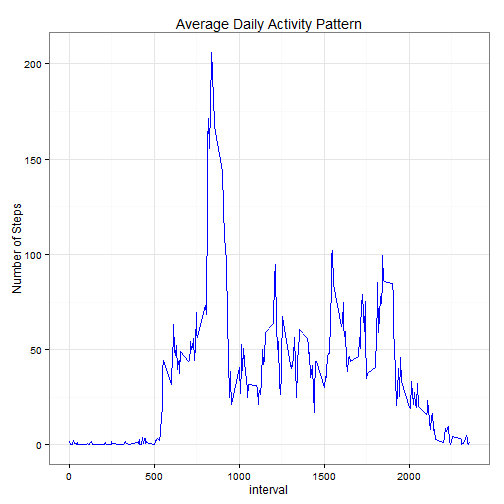
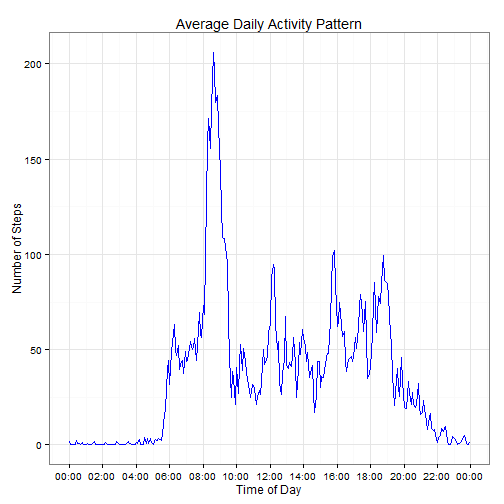
Final?

Changed region(s): [[0.0893, 0.0595, 0.9524, 0.9821], [0.6548, 0.4762, 0.9524, 0.8929], [0.1786, 0.8631, 0.2083, 0.8929]]

diff --git a/PA1_template.html b/PA1_template.html
@@ -181,7 +181,7 @@ hljs.initHighlightingOnLoad();
 <body>
 <h1>Reproducible Research Peer Assessment 1</h1>
 
-<p>This markdown file was generated at Sun Jun 15 7:36:54 AM 2014 UTC.</p>
+<p>This markdown file was generated on Sun Jun 15 3:52:32 PM 2014 UTC using R version 3.0.3 (2014-03-06).</p>
 
 <h2>Introduction</h2>
 
@@ -195,27 +195,30 @@ hljs.initHighlightingOnLoad();
 Sys.setlocale(&quot;LC_TIME&quot;, &quot;English&quot;)
 suppressPackageStartupMessages(require(data.table))
 suppressPackageStartupMessages(require(ggplot2))
+suppressPackageStartupMessages(require(scales))
 options(scipen = 1, digits = 7)
 fileUrl &lt;- &quot;https://d396qusza40orc.cloudfront.net/repdata%2Fdata%2Factivity.zip&quot;
 if(!file.exists(&quot;activity.csv&quot;)){
-        download.file(fileUrl, destfile=&quot;activity_monitoring_data.zip&quot;, 
+        download.file(fileUrl, destfile = &quot;activity_monitoring_data.zip&quot;, 
                       method=&quot;auto&quot;)       
         unzip(&quot;activity_monitoring_data.zip&quot;)
 }
-activityData &lt;- data.table(read.csv(&quot;activity.csv&quot;,header = TRUE, sep = &quot;,&quot;,
-        na.strings = &quot;NA&quot;, colClasses=c(&quot;numeric&quot;,&quot;Date&quot;,&quot;numeric&quot;)))
+activityData &lt;- data.table(read.csv(&quot;activity.csv&quot;, header = TRUE, sep = &quot;,&quot;,
+        na.strings = &quot;NA&quot;, colClasses = c(&quot;numeric&quot;, &quot;Date&quot;, &quot;numeric&quot;)))
+activityData$interval &lt;- sprintf(&quot;%04d&quot;, activityData$interval)
+activityData$interval &lt;- as.POSIXct(activityData$interval, format = &quot;%H%M&quot;)
 </code></pre>
 
-<p>First the working directory was established.  <em>Note: if the reader wishes to execute the code herein, he/she may need to change the working directory.</em>  Next two packages are loaded: <a href="http://cran.r-project.org/web/packages/data.table/index.html">data.table</a> for efficient processing of data tables and <a href="http://ggplot2.org/">ggplot2</a> for producing the plots. Finally the data were downloaded and loaded in as a data.table.</p>
+<p>First the working directory was established.  <em>Note: if the reader wishes to execute the code herein, he/she may need to change the working directory.</em>  Next two packages are loaded: <a href="http://cran.r-project.org/web/packages/data.table/index.html">data.table</a> for efficient processing of data tables, <a href="http://ggplot2.org/">ggplot2</a> for producing the plots, and <a href="http://cran.r-project.org/web/packages/scales/index.html">scales</a> for aid in formatting axes on plots. Finally the data were downloaded and loaded in as a data.table.</p>
 
 <h2>What is mean total number of steps taken per day?</h2>
 
-<pre><code class="r">transformedDataByDate &lt;- activityData[,list(total=sum(steps)),by=date]
-stepsMean &lt;- round(mean(transformedDataByDate$total,na.rm=TRUE))
-stepsMedian &lt;- round(median(transformedDataByDate$total,na.rm=TRUE))
-ggplot(transformedDataByDate, aes(x=total)) + geom_histogram(color=&quot;blue&quot;, fill
-        =&quot;white&quot;, binwidth = 1000) + geom_vline(aes(xintercept=stepsMedian), 
-        color=&quot;red&quot;, linetype=&quot;dashed&quot;, size=1) + ylim(0, 18) + 
+<pre><code class="r">transformedDataByDate &lt;- activityData[, list(total = sum(steps)), by = date]
+stepsMean &lt;- round(mean(transformedDataByDate$total, na.rm = TRUE))
+stepsMedian &lt;- round(median(transformedDataByDate$total, na.rm = TRUE))
+ggplot(transformedDataByDate, aes(x = total)) + geom_histogram(color = &quot;blue&quot;, 
+        fill = &quot;white&quot;, binwidth = 1000) + geom_vline(aes(xintercept = 
+        stepsMedian), color = &quot;red&quot;, linetype = &quot;dashed&quot;, size=1) + ylim(0, 18) + 
         ggtitle(&quot;Total Number of Steps Taken Per Day: Missing Data Ignored&quot;) + 
         xlab(&quot;Number of steps per day&quot;) + ylab(&quot;Count&quot;) + theme_bw()
 </code></pre>
@@ -229,32 +232,33 @@ The median number of steps, rounded to the nearest step,  taken per day was <str
 
 <h2>What is the average daily activity pattern?</h2>
 
-<pre><code class="r">transformedDataByInterval &lt;- activityData[,list(average=mean(steps,na.rm=TRUE)),
-        by=interval]
-ggplot(transformedDataByInterval,aes(x=interval,y=average))+ 
-        geom_line(color=&quot;blue&quot;) + ggtitle(&quot;Average Daily Activity Pattern&quot;)+  
-        ylab(&quot;Number of Steps&quot;) + theme_bw()
+<pre><code class="r">transformedDataByInterval &lt;- activityData[, list(average = mean(steps, na.rm = 
+        TRUE)), by=interval]
+ggplot(transformedDataByInterval, aes(x = interval, y = average)) + 
+        geom_line(color = &quot;blue&quot;) + ggtitle(&quot;Average Daily Activity Pattern&quot;) +  
+        ylab(&quot;Number of Steps&quot;) + xlab(&quot;Time of Day&quot;) + 
+        scale_x_datetime(labels = date_format(&quot;%H:%M&quot;), breaks = 
+        date_breaks(&quot;2 hours&quot;)) + theme_bw()
 </code></pre>
 
[2 lines of base64/hex data omitted]
 
-<pre><code class="r">maxInterval&lt;-transformedDataByInterval[which.max(transformedDataByInterval$average),
-        interval]
-maxInterval&lt;-paste(maxInterval-5,&quot; and &quot;,maxInterval)
+<pre><code class="r">maxInterval&lt;-strftime(transformedDataByInterval[which.max(
+        transformedDataByInterval$average),interval], format = &quot;%H:%M&quot;)
 </code></pre>
 
 <p>Next the average daily activity pattern was plotted.  </p>
 
-<p>The 5-minute interval, on average across all the days in the dataset, containing 
-the maximum number of steps is the interval between <strong>830  and  835</strong> seconds.</p>
+<p>The time, on average across all the days in the dataset, containing 
+the maximum number of steps occurs at <strong>08:35</strong>.</p>
 
 <h2>Determing the effect of imputing missing values</h2>
 
-<pre><code class="r">numberNA &lt;- length(is.na(activityData$steps)[is.na(activityData$steps)==TRUE])
+<pre><code class="r">numberNA &lt;- length(is.na(activityData$steps)[is.na(activityData$steps) == TRUE])
 imputedActivityData &lt;- activityData
 imputedActivityData$steps &lt;- ifelse(is.na(activityData$steps), 
         transformedDataByInterval[match(activityData$interval, 
-        transformedDataByInterval$interval),transformedDataByInterval$average], 
+        transformedDataByInterval$interval), transformedDataByInterval$average], 
         activityData$steps)
 </code></pre>
 
@@ -262,16 +266,16 @@ imputedActivityData$steps &lt;- ifelse(is.na(activityData$steps),
 
 <p>As a result, missing values were imputed by substituting the mean for that 5-minute interval across all days for the missing value.  Total number of steps taken per day were then replotted for the data including imputed values.  </p>
 
-<pre><code class="r">transformedImputedDataByDate &lt;- imputedActivityData[,list(total=sum(steps)),
-        by=date]
+<pre><code class="r">transformedImputedDataByDate &lt;- imputedActivityData[, list(total = sum(steps)),
+        by = date]
 stepsImputedMean &lt;- round(mean(transformedImputedDataByDate$total))
 stepsImputedMedian &lt;- round(median(transformedImputedDataByDate$total))
-ggplot(transformedImputedDataByDate, aes(x=total)) + geom_histogram(color=
-        &quot;blue&quot;, fill=&quot;white&quot;,binwidth = 1000) + 
-        geom_vline(aes(xintercept=stepsMedian), color=&quot;red&quot;, linetype=&quot;dashed&quot;, 
-        size=1) + ylim(0, 18) + 
-        ggtitle(&quot;Total Number of Steps Taken Per Day: Missing Data Imputed&quot;) + 
-        xlab(&quot;Number of steps per day&quot;)+ ylab(&quot;Count&quot;)  + theme_bw()
+ggplot(transformedImputedDataByDate, aes(x = total)) + geom_histogram(color =
+        &quot;blue&quot;, fill = &quot;white&quot;, binwidth = 1000) + geom_vline(aes(
+        xintercept = stepsMedian), color = &quot;red&quot;, linetype = &quot;dashed&quot;, 
+        size = 1) + ylim(0, 18) + ggtitle(
+        &quot;Total Number of Steps Taken Per Day: Missing Data Imputed&quot;) + 
+        xlab(&quot;Number of steps per day&quot;) + ylab(&quot;Count&quot;) + theme_bw()
 </code></pre>
 
[1 lines of base64/hex data omitted]
@@ -284,9 +288,9 @@ transformedDataByDateImpute &lt;- transformedImputedDataByDate
 transformedDataByDateImpute$datasource &lt;- &quot;Impute Missing&quot;
 transformedDataByDateCombine &lt;- rbind(transformedDataByDateRemove,
         transformedDataByDateImpute)
-ggplot(transformedDataByDateCombine, aes(x=total, fill=datasource)) + 
-        geom_histogram(color=&quot;black&quot;, binwidth=1000, alpha=.5, 
-        position=&quot;identity&quot;)+ xlab(&quot;Number of steps per day&quot;)+ ylab(&quot;Count&quot;) + 
+ggplot(transformedDataByDateCombine, aes(x = total, fill = datasource)) + 
+        geom_histogram(color = &quot;black&quot;, binwidth = 1000, alpha = .5, 
+        position = &quot;identity&quot;)+ xlab(&quot;Number of steps per day&quot;) + ylab(&quot;Count&quot;) + 
         theme_bw() + theme(legend.position = c(0.875, 0.9),
         legend.background = element_rect(color = &quot;black&quot;, size = 1, 
         linetype = &quot;solid&quot;))
@@ -296,26 +300,27 @@ ggplot(transformedDataByDateCombine, aes(x=total, fill=datasource)) +
 
 <p>Changes in mean and median as result of imputation were negligible.  For example,
 the preimutation mean and median were <strong>10766</strong> and <strong>10765</strong>, 
-respectively, while the postimputation mean and median were <strong>10766</strong>
-and <strong>10766</strong> respectively.</p>
+steps respectively, while the postimputation mean and median were <strong>10766</strong> and <strong>10766</strong> steps respectively.</p>
 
-<p>These results are perhaps expected as often entire days worth of data went missing, and the imputed values were themselves derived from average figures. As a result, the missing days are simply substituted with the averages. </p>
+<p>These results are perhaps expected as often entire days worth of data went missing from the original data set, and the imputed values were themselves derived from average figures. As a result, the imputed data were simply appended to the existing mean.  Perhaps a more sophisticated imputation approach is warranted.</p>
 
 <h2>Are there differences in activity patterns between weekdays and weekends?</h2>
 
 <pre><code class="r">imputedActivityDataWeek &lt;- imputedActivityData
 imputedActivityDataWeek$weekdayorweekend &lt;- ifelse(weekdays(
-        imputedActivityDataWeek$date) %in% c(&#39;Saturday&#39;,&#39;Sunday&#39;),&quot;weekend&quot;, 
+        imputedActivityDataWeek$date) %in% c(&quot;Saturday&quot;, &quot;Sunday&quot;), &quot;weekend&quot;, 
         &quot;weekday&quot;)
-transformedimputedActivityDataWeek &lt;- imputedActivityDataWeek[,list(
-        average=mean(steps)),by=list(interval, weekdayorweekend)]
-ggplot(transformedimputedActivityDataWeek,aes(x=interval,y=average))+ 
-        geom_line(color=&quot;blue&quot;)+ facet_wrap(~weekdayorweekend, ncol = 1) +
+transformedimputedActivityDataWeek &lt;- imputedActivityDataWeek[, list(
+        average = mean(steps)), by = list(interval, weekdayorweekend)]
+ggplot(transformedimputedActivityDataWeek, aes(x = interval, y = average)) + 
+        geom_line(color = &quot;blue&quot;)+ facet_wrap(~weekdayorweekend, ncol = 1) +
         ggtitle(&quot;Average Daily Activity Pattern: Weekday vs. Weekend&quot;) + 
-        ylab(&quot;Number of steps&quot;) + theme_bw() 
+        ylab(&quot;Number of steps&quot;) + xlab(&quot;Time of Day&quot;) + 
+        scale_x_datetime(labels = date_format(&quot;%H:%M&quot;), breaks = 
+        date_breaks(&quot;2 hours&quot;)) + theme_bw() 
 </code></pre>
 
[2 lines of base64/hex data omitted]
 
 <p>Next, we sought to determine whether differences in the activity pattern existed
 between weekdays and weekends.  Average daily activity data were stratified by weekday or weekend and then replotted.  While the periods of inactivity were similar regardless of the days of the week, the periodocity of activity during active periods were clearly different.</p>

diff --git a/PA1_template.md b/PA1_template.md
@@ -1,7 +1,7 @@
 Reproducible Research Peer Assessment 1
 ========================================================
 
-This markdown file was generated at Sun Jun 15 7:36:54 AM 2014 UTC.
+This markdown file was generated on Sun Jun 15 3:52:32 PM 2014 UTC using R version 3.0.3 (2014-03-06).
 
 ## Introduction
 
@@ -18,30 +18,33 @@ setwd("~/GitHub/RepData_PeerAssessment1-1")
 Sys.setlocale("LC_TIME", "English")
 suppressPackageStartupMessages(require(data.table))
 suppressPackageStartupMessages(require(ggplot2))
+suppressPackageStartupMessages(require(scales))
 options(scipen = 1, digits = 7)
 fileUrl <- "https://d396qusza40orc.cloudfront.net/repdata%2Fdata%2Factivity.zip"
 if(!file.exists("activity.csv")){
-        download.file(fileUrl, destfile="activity_monitoring_data.zip", 
+        download.file(fileUrl, destfile = "activity_monitoring_data.zip", 
                       method="auto")       
         unzip("activity_monitoring_data.zip")
 }
-activityData <- data.table(read.csv("activity.csv",header = TRUE, sep = ",",
-        na.strings = "NA", colClasses=c("numeric","Date","numeric")))
+activityData <- data.table(read.csv("activity.csv", header = TRUE, sep = ",",
+        na.strings = "NA", colClasses = c("numeric", "Date", "numeric")))
+activityData$interval <- sprintf("%04d", activityData$interval)
+activityData$interval <- as.POSIXct(activityData$interval, format = "%H%M")
 ```
 
-First the working directory was established.  *Note: if the reader wishes to execute the code herein, he/she may need to change the working directory.*  Next two packages are loaded: [data.table](http://cran.r-project.org/web/packages/data.table/index.html) for efficient processing of data tables and [ggplot2](http://ggplot2.org/) for producing the plots. Finally the data were downloaded and loaded in as a data.table.
+First the working directory was established.  *Note: if the reader wishes to execute the code herein, he/she may need to change the working directory.*  Next two packages are loaded: [data.table](http://cran.r-project.org/web/packages/data.table/index.html) for efficient processing of data tables, [ggplot2](http://ggplot2.org/) for producing the plots, and [scales](http://cran.r-project.org/web/packages/scales/index.html) for aid in formatting axes on plots. Finally the data were downloaded and loaded in as a data.table.
 
 
 ## What is mean total number of steps taken per day?
 
 
 ```r
-transformedDataByDate <- activityData[,list(total=sum(steps)),by=date]
-stepsMean <- round(mean(transformedDataByDate$total,na.rm=TRUE))
-stepsMedian <- round(median(transformedDataByDate$total,na.rm=TRUE))
-ggplot(transformedDataByDate, aes(x=total)) + geom_histogram(color="blue", fill
-        ="white", binwidth = 1000) + geom_vline(aes(xintercept=stepsMedian), 
-        color="red", linetype="dashed", size=1) + ylim(0, 18) + 
+transformedDataByDate <- activityData[, list(total = sum(steps)), by = date]
+stepsMean <- round(mean(transformedDataByDate$total, na.rm = TRUE))
+stepsMedian <- round(median(transformedDataByDate$total, na.rm = TRUE))
+ggplot(transformedDataByDate, aes(x = total)) + geom_histogram(color = "blue", 
+        fill = "white", binwidth = 1000) + geom_vline(aes(xintercept = 
+        stepsMedian), color = "red", linetype = "dashed", size=1) + ylim(0, 18) + 
         ggtitle("Total Number of Steps Taken Per Day: Missing Data Ignored") + 
         xlab("Number of steps per day") + ylab("Count") + theme_bw()
 ```
@@ -59,36 +62,37 @@ The median number of steps, rounded to the nearest step,  taken per day was **10
 
 
 ```r
-transformedDataByInterval <- activityData[,list(average=mean(steps,na.rm=TRUE)),
-        by=interval]
-ggplot(transformedDataByInterval,aes(x=interval,y=average))+ 
-        geom_line(color="blue") + ggtitle("Average Daily Activity Pattern")+  
-        ylab("Number of Steps") + theme_bw()
+transformedDataByInterval <- activityData[, list(average = mean(steps, na.rm = 
+        TRUE)), by=interval]
+ggplot(transformedDataByInterval, aes(x = interval, y = average)) + 
+        geom_line(color = "blue") + ggtitle("Average Daily Activity Pattern") +  
+        ylab("Number of Steps") + xlab("Time of Day") + 
+        scale_x_datetime(labels = date_format("%H:%M"), breaks = 
+        date_breaks("2 hours")) + theme_bw()
 ```
 
 ![plot of chunk avgdailypattern](figure/avgdailypattern.png) 
 
 ```r
-maxInterval<-transformedDataByInterval[which.max(transformedDataByInterval$average),
-        interval]
-maxInterval<-paste(maxInterval-5," and ",maxInterval)
+maxInterval<-strftime(transformedDataByInterval[which.max(
+        transformedDataByInterval$average),interval], format = "%H:%M")
 ```
 
 Next the average daily activity pattern was plotted.  
 
-The 5-minute interval, on average across all the days in the dataset, containing 
-the maximum number of steps is the interval between **830  and  835** seconds.
+The time, on average across all the days in the dataset, containing 
+the maximum number of steps occurs at **08:35**.
 
 
 ## Determing the effect of imputing missing values
 
 
 ```r
-numberNA <- length(is.na(activityData$steps)[is.na(activityData$steps)==TRUE])
+numberNA <- length(is.na(activityData$steps)[is.na(activityData$steps) == TRUE])
 imputedActivityData <- activityData
 imputedActivityData$steps <- ifelse(is.na(activityData$steps), 
         transformedDataByInterval[match(activityData$interval, 
-        transformedDataByInterval$interval),transformedDataByInterval$average], 
+        transformedDataByInterval$interval), transformedDataByInterval$average], 
         activityData$steps)
 ```
 
@@ -99,16 +103,16 @@ As a result, missing values were imputed by substituting the mean for that 5-min
 
 
 ```r
-transformedImputedDataByDate <- imputedActivityData[,list(total=sum(steps)),
-        by=date]
+transformedImputedDataByDate <- imputedActivityData[, list(total = sum(steps)),
+        by = date]
 stepsImputedMean <- round(mean(transformedImputedDataByDate$total))
 stepsImputedMedian <- round(median(transformedImputedDataByDate$total))
-ggplot(transformedImputedDataByDate, aes(x=total)) + geom_histogram(color=
-        "blue", fill="white",binwidth = 1000) + 
-        geom_vline(aes(xintercept=stepsMedian), color="red", linetype="dashed", 
-        size=1) + ylim(0, 18) + 
-        ggtitle("Total Number of Steps Taken Per Day: Missing Data Imputed") + 
-        xlab("Number of steps per day")+ ylab("Count")  + theme_bw()
+ggplot(transformedImputedDataByDate, aes(x = total)) + geom_histogram(color =
+        "blue", fill = "white", binwidth = 1000) + geom_vline(aes(
+        xintercept = stepsMedian), color = "red", linetype = "dashed", 
+        size = 1) + ylim(0, 18) + ggtitle(
+        "Total Number of Steps Taken Per Day: Missing Data Imputed") + 
+        xlab("Number of steps per day") + ylab("Count") + theme_bw()
 ```
 
 ![plot of chunk stepsbedayhistimputeNA](figure/stepsbedayhistimputeNA.png) 
@@ -123,9 +127,9 @@ transformedDataByDateImpute <- transformedImputedDataByDate
 transformedDataByDateImpute$datasource <- "Impute Missing"
 transformedDataByDateCombine <- rbind(transformedDataByDateRemove,
         transformedDataByDateImpute)
-ggplot(transformedDataByDateCombine, aes(x=total, fill=datasource)) + 
-        geom_histogram(color="black", binwidth=1000, alpha=.5, 
-        position="identity")+ xlab("Number of steps per day")+ ylab("Count") + 
+ggplot(transformedDataByDateCombine, aes(x = total, fill = datasource)) + 
+        geom_histogram(color = "black", binwidth = 1000, alpha = .5, 
+        position = "identity")+ xlab("Number of steps per day") + ylab("Count") + 
         theme_bw() + theme(legend.position = c(0.875, 0.9),
         legend.background = element_rect(color = "black", size = 1, 
         linetype = "solid"))
@@ -135,10 +139,9 @@ ggplot(transformedDataByDateCombine, aes(x=total, fill=datasource)) +
 
 Changes in mean and median as result of imputation were negligible.  For example,
 the preimutation mean and median were **10766** and **10765**, 
-respectively, while the postimputation mean and median were **10766**
-and **10766** respectively.
+steps respectively, while the postimputation mean and median were **10766** and **10766** steps respectively.
 
-These results are perhaps expected as often entire days worth of data went missing, and the imputed values were themselves derived from average figures. As a result, the missing days are simply substituted with the averages. 
+These results are perhaps expected as often entire days worth of data went missing from the original data set, and the imputed values were themselves derived from average figures. As a result, the imputed data were simply appended to the existing mean.  Perhaps a more sophisticated imputation approach is warranted.
 
 
 ## Are there differences in activity patterns between weekdays and weekends?
@@ -147,14 +150,16 @@ These results are perhaps expected as often entire days worth of data went missi
 ```r
 imputedActivityDataWeek <- imputedActivityData
 imputedActivityDataWeek$weekdayorweekend <- ifelse(weekdays(
-        imputedActivityDataWeek$date) %in% c('Saturday','Sunday'),"weekend", 
+        imputedActivityDataWeek$date) %in% c("Saturday", "Sunday"), "weekend", 
         "weekday")
-transformedimputedActivityDataWeek <- imputedActivityDataWeek[,list(
-        average=mean(steps)),by=list(interval, weekdayorweekend)]
-ggplot(transformedimputedActivityDataWeek,aes(x=interval,y=average))+ 
-        geom_line(color="blue")+ facet_wrap(~weekdayorweekend, ncol = 1) +
+transformedimputedActivityDataWeek <- imputedActivityDataWeek[, list(
+        average = mean(steps)), by = list(interval, weekdayorweekend)]
+ggplot(transformedimputedActivityDataWeek, aes(x = interval, y = average)) + 
+        geom_line(color = "blue")+ facet_wrap(~weekdayorweekend, ncol = 1) +
         ggtitle("Average Daily Activity Pattern: Weekday vs. Weekend") + 
-        ylab("Number of steps") + theme_bw() 
+        ylab("Number of steps") + xlab("Time of Day") + 
+        scale_x_datetime(labels = date_format("%H:%M"), breaks = 
+        date_breaks("2 hours")) + theme_bw() 
 ```
 
 ![plot of chunk avgdailypatternbydayofweek](figure/avgdailypatternbydayofweek.png) 
